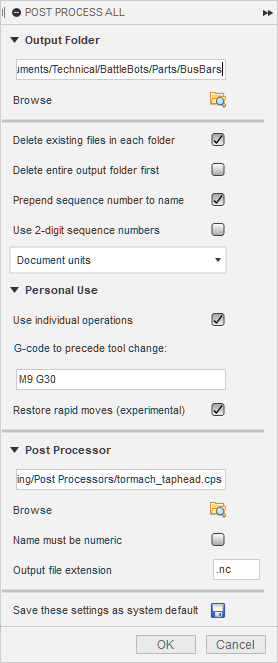
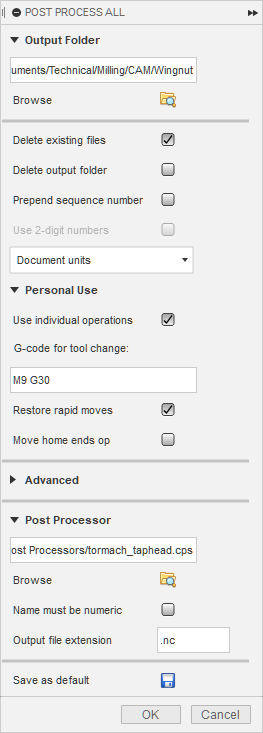
Improved error reporting; add options for G-code parsing and time delay

diff --git a/PostProcessAll.py b/PostProcessAll.py
@@ -5,7 +5,7 @@ import adsk.core, adsk.fusion, adsk.cam, traceback, shutil, json, os, os.path, t
 
 # Version number of settings as saved in documents and settings file
 # update this whenever settings content changes
-version = 6
+version = 7
 
 # Initial default values of settings
 defaultSettings = {
@@ -22,10 +22,15 @@ defaultSettings = {
     "toolChange" : "M9 G30",
     "fileExt" : ".nc",
     "numericName" : False,
+    "homeEndsOp" : False,
     # Groups are expanded or not
     "groupOutput" : True,
     "groupPersonal" : True,
-    "groupPost" : True
+    "groupPost" : True,
+    "groupAdvanced" : False,
+    # Retry policy
+    "initialDelay" : 0.2,
+    "postRetries" : 3
 }
 
 # Constants
@@ -38,10 +43,9 @@ constCAMProductId = "CAMProductType"
 constAttrGroup = constCmdDefId
 constAttrName = "settings"
 constSettingsFileExt = ".settings"
-constGcodeFileExt = ".nc"
 constPostLoopDelay = 0.1
 constBodyTmpFile = "gcodeBody"
-constOpTmpFile = "9900100"   # in case name must be numeric
+constOpTmpFile = "9910"   # in case name must be numeric
 constRapidZgcode = 'G00 Z{} (Changed from: "{}")\n'
 constRapidXYgcode = 'G00 {} (Changed from: "{}")\n'
 constFeedZgcode = 'G01 Z{} F{} (Changed from: "{}")\n'
@@ -51,13 +55,6 @@ constAddFeedGcode = " F{} (Feed rate added)\n"
 constMotionGcodeSet = {0,1,2,3,33,38,73,76,80,81,82,84,85,86,87,88,89}
 constEndMcodeSet = {5,9,30}
 constLineNumInc = 5
-
-# Errors in post processing
-class PostError(enum.Enum):
-    Success = 0
-    Fail = 1
-    Except = 2
-    BadFormat = 3
 
 # Tool tip text
 toolTip = (
@@ -249,11 +246,11 @@ class CommandEventHandler(adsk.core.CommandCreatedEventHandler):
 
             # check box to delete existing files
             input = inputs.addBoolValueInput("delFiles", 
-                                             "Delete existing files in each folder", 
+                                             "Delete existing files", 
                                              True, 
                                              "", 
                                              docSettings["delFiles"])
-            input.tooltip = "Delete Existing Files"
+            input.tooltip = "Delete Existing Files in Each Folder"
             input.tooltipDescription = (
                 "Delete all files in each output folder before post processing. "
                 "This will help prevent accumulation of G-code files which are "
@@ -270,12 +267,12 @@ class CommandEventHandler(adsk.core.CommandCreatedEventHandler):
 
             # check box to delete entire output folder
             input = inputs.addBoolValueInput("delFolder", 
-                                             "Delete entire output folder first", 
+                                             "Delete output folder", 
                                              True, 
                                              "", 
                                              docSettings["delFolder"] and docSettings["delFiles"])
             input.isEnabled = docSettings["delFiles"] # enable only if delete existing files
-            input.tooltip = "Delete Output Folder"
+            input.tooltip = "Delete Entire Output Folder First"
             input.tooltipDescription = (
                 "Delete the entire output folder before post processing. This "
                 "deletes all files and subfolders regardless of whether or not "
@@ -289,11 +286,11 @@ class CommandEventHandler(adsk.core.CommandCreatedEventHandler):
 
             # check box to prepend sequence numbers
             input = inputs.addBoolValueInput("sequence", 
-                                             "Prepend sequence number to name", 
+                                             "Prepend sequence number", 
                                              True, 
                                              "", 
                                              docSettings["sequence"])
-            input.tooltip = "Add Sequence Numbers"
+            input.tooltip = "Add Sequence Numbers to Name"
             input.tooltipDescription = (
                 "Begin each file name with a sequence number. The numbering "
                 "represents the order that the setups appear in the browser tree. "
@@ -301,7 +298,7 @@ class CommandEventHandler(adsk.core.CommandCreatedEventHandler):
 
             # check box to select 2-digit sequence numbers
             input = inputs.addBoolValueInput("twoDigits", 
-                                             "Use 2-digit sequence numbers", 
+                                             "Use 2-digit numbers", 
                                              True, 
                                              "", 
                                              docSettings["twoDigits"])
@@ -350,7 +347,7 @@ class CommandEventHandler(adsk.core.CommandCreatedEventHandler):
             # text box as a label for tool change command
             input = inputGroup.children.addTextBoxCommandInput("toolLabel", 
                                                                "", 
-                                                               "G-code to precede tool change:",
+                                                               "G-code for tool change:",
                                                                1,
                                                                True)
             input.isFullWidth = True
@@ -360,7 +357,7 @@ class CommandEventHandler(adsk.core.CommandCreatedEventHandler):
             input = inputGroup.children.addStringValueInput("toolChange", "", docSettings["toolChange"])
             input.isEnabled = docSettings["splitSetup"] # enable only if using individual operations
             input.isFullWidth = True
-            input.tooltip = "G-code for Tool Change"
+            input.tooltip = "G-code to Precede Tool Change"
             input.tooltipDescription = (
                 "Allows inserting a line of code before tool changes. For example, "
                 "you might want M5 (spindle stop), M9 (coolant stop), and/or G28 or G30 "
@@ -377,12 +374,12 @@ class CommandEventHandler(adsk.core.CommandCreatedEventHandler):
            
             # check box to enable restoring rapid moves
             input = inputGroup.children.addBoolValueInput("fastZ",
-                                                          "Restore rapid moves (experimental)",
+                                                          "Restore rapid moves",
                                                           True,
                                                           "",
                                                           docSettings["fastZ"])
             input.isEnabled = docSettings["splitSetup"] # enable only if using individual operations
-            input.tooltip = "Restore Rapid Moves"
+            input.tooltip = "Restore Rapid Moves (Experimental)"
             input.tooltipDescription = (
                 "Replace appropriate moves at feed rate with rapid (G0) moves. "
                 "In Fusion 360 for Personal Use, moves that could be rapid are "
@@ -392,8 +389,39 @@ class CommandEventHandler(adsk.core.CommandCreatedEventHandler):
                 "<p><b>WARNING!<b> This option should be used with caution. "
                 "Review the G-code to verify it is correct. Comments have been "
                 "added to indicate the changes.")
+           
+            # G-code end marked by move home
+            input = inputGroup.children.addBoolValueInput("homeEndsOp",
+                                                          "Move home ends op",
+                                                          True,
+                                                          "",
+                                                          docSettings["homeEndsOp"])
+            input.isEnabled = docSettings["splitSetup"] # enable only if using individual operations
+            input.tooltip = "Move to Home Marks End of Operation"
+            input.tooltipDescription = (
+                "To combine operations generated individually, the ending sequence "
+                "(which should only appear once) must be found. This option includes "
+                "a return to home (G28/G30) in the set that marks the ending sequence."
+                "<p>You should select this option if you find that there is a G28 or "
+                "G30 at the end of each operation of a G-code file.")
             inputGroup.isExpanded = docSettings["groupPersonal"]
 
+            # Advanced -- retry settings
+            inputGroup = inputs.addGroupCommandInput("groupAdvanced", "Advanced")
+            # Time delay
+            input = inputGroup.children.addFloatSpinnerCommandInput("initialDelay", 
+                "Initial time allowance", "s", 0.1, 1.0, 0.1, docSettings["initialDelay"])
+            input.tooltip = "Initial Time to Post Process an Operation"
+            input.tooltipDescription = (
+                "Initial delay to wait for post processor. Doubled for each retry.")
+            # Retry count
+            input = inputGroup.children.addIntegerSpinnerCommandInput("postRetries", 
+                "Number of retries", 1, 9, 1, docSettings["postRetries"])
+            input.tooltip = "Number of Retries"
+            input.tooltipDescription = (
+                "Retries if post processing failed. Time delay is doubled each retry.")
+            inputGroup.isExpanded = docSettings["groupAdvanced"]
+            
             # post processor
             inputGroup = inputs.addGroupCommandInput("groupPost", "Post Processor")
             input = inputGroup.children.addStringValueInput("post", "", docSettings["post"])
@@ -422,13 +450,12 @@ class CommandEventHandler(adsk.core.CommandCreatedEventHandler):
 
             # File name extension
             input = inputGroup.children.addStringValueInput("fileExt", "Output file extension", docSettings["fileExt"])
-            #input.isFullWidth = True
             input.tooltip = "Output File Extension"
             
             # button to save default settings
-            input = inputs.addBoolValueInput("save", "Save these settings as system default", False)
+            input = inputs.addBoolValueInput("save", "Save as default", False)
             input.resourceFolder = "resources/Save"
-            input.tooltip = "Save Default Settings"
+            input.tooltip = "Save These Settings as System Default"
             input.tooltipDescription = (
                 "Save these settings to use as the default for each new design.")
 
@@ -722,17 +749,11 @@ def PerformPostProcess(docSettings):
 
                             # post the file
                             status = PostProcessSetup(fname, setup, setupFolder, docSettings)
-                            if status == PostError.Success:
+                            if status == None:
                                 cntFiles += 1
                             else:
                                 cntSkipped += 1
-                                if status == PostError.Fail:
-                                    lstSkipped += "\nFailed: "
-                                elif status == PostError.BadFormat:
-                                    lstSkipped += "\nGcode file format not recognized: "
-                                else:
-                                    lstSkipped += "\nException: "
-                                lstSkipped += setup.name
+                                lstSkipped += "\nFailed on setup " + setup.name + ": " + status
                          
                     cntSetups += 1
                     progress.message = progressMsg.format(cntFiles)
@@ -764,7 +785,7 @@ def PostProcessSetup(fname, setup, setupFolder, docSettings):
     fileHead = None
     fileBody = None
     fileOp = None
-    retVal = PostError.Except
+    retVal = "Fusion 360 reported an exception."
 
     try:
         app = adsk.core.Application.get()
@@ -789,11 +810,11 @@ def PostProcessSetup(fname, setup, setupFolder, docSettings):
         if not docSettings["splitSetup"]:
             try:
                 if not cam.postProcess(setup, postInput):
-                    return PostError.Fail
+                    return "Fusion 360 reported an error."
                 time.sleep(constPostLoopDelay) # files missing sometimes unless we slow down (??)
-                return PostError.Success
+                return None
             except:
-                return PostError.Except
+                return retVal
 
         # Split setup into individual operations
         path = setupFolder + "/" + fname
@@ -843,7 +864,10 @@ def PostProcessSetup(fname, setup, setupFolder, docSettings):
             # Look ahead for operations without a toolpath. This can happen
             # with a manual operation. Group it with current operation.
             # Or if first, group it with subsequent ones.
+            opHasTool = None
             hasTool = op.hasToolpath
+            if hasTool:
+                opHasTool = op
             opList = adsk.core.ObjectCollection.create()
             opList.add(op)
             while i < ops.count:
@@ -854,30 +878,46 @@ def PostProcessSetup(fname, setup, setupFolder, docSettings):
                 if op.hasToolpath:
                     if not hasTool:
                         opList.add(op)
+                        opHasTool = op
                         i += 1
                     break;
                 opList.add(op)
                 i += 1
 
-            retries = 5
-            delay = constPostLoopDelay
+            opPath = opFolder + "/" + opName + fileExt
+            retries = docSettings["postRetries"]
+            delay = docSettings["initialDelay"]
             while True:
                 try:
                     if not cam.postProcess(opList, postInput):
-                        return PostError.Fail
+                        retVal = "Fusion 360 reported an error processing operation"
+                        if (opHasTool != None):
+                            retVal += ": " +  opHasTool.name
+                        return retVal
                 except:
-                    return PostError.Except
+                    return retVal
 
                 time.sleep(delay) # wait for it to finish (??)
                 try:
-                    fileOp = open(opFolder + "/" + opName + fileExt)
+                    fileOp = open(opPath)
                     break
                 except:
                     delay *= 2
                     retries -= 1
-                    if retries == 0:
-                        raise
-                    pass
+                    if retries > 0:
+                        continue;
+                    # Maybe the file name extension is wrong
+                    for file in os.listdir(opFolder):
+                        if file.startswith(opName):
+                            ext = file[len(opName):]
+                            if ext != fileExt:
+                                ui.messageBox("Unable to open output file. "
+                                    "Found the file with extension '{}' instead "
+                                    "of '{}'. Make sure you have the correct file "
+                                    "extension set in the Post Process All "
+                                    "dialog.".format(ext, fileExt))
+                            break;
+                    return "Unable to open " + opPath
             
             # Parse the gcode. We expect a header like this:
             #
@@ -989,6 +1029,9 @@ def PostProcessSetup(fname, setup, setupFolder, docSettings):
                         fLockSpeed = True
                     elif Mtmp == 48:
                         fLockSpeed = False
+
+                if docSettings["homeEndsOp"] and ("G28" in line or "G30" in line):
+                    break
 
                 if fFastZ:
                     # Analyze code for chances to make rapid moves
@@ -1123,7 +1166,7 @@ def PostProcessSetup(fname, setup, setupFolder, docSettings):
         fileHead.close()
         fileHead = None
 
-        return PostError.Success
+        return None
 
     except:
         if fileHead:
@@ -1147,7 +1190,7 @@ def PostProcessSetup(fname, setup, setupFolder, docSettings):
             except:
                 pass
 
-        if ui and retVal != PostError.BadFormat:
-            ui.messageBox('Failed:\n{}'.format(traceback.format_exc()))
+        if ui:
+            retVal += " " + traceback.format_exc()
 
         return retVal
